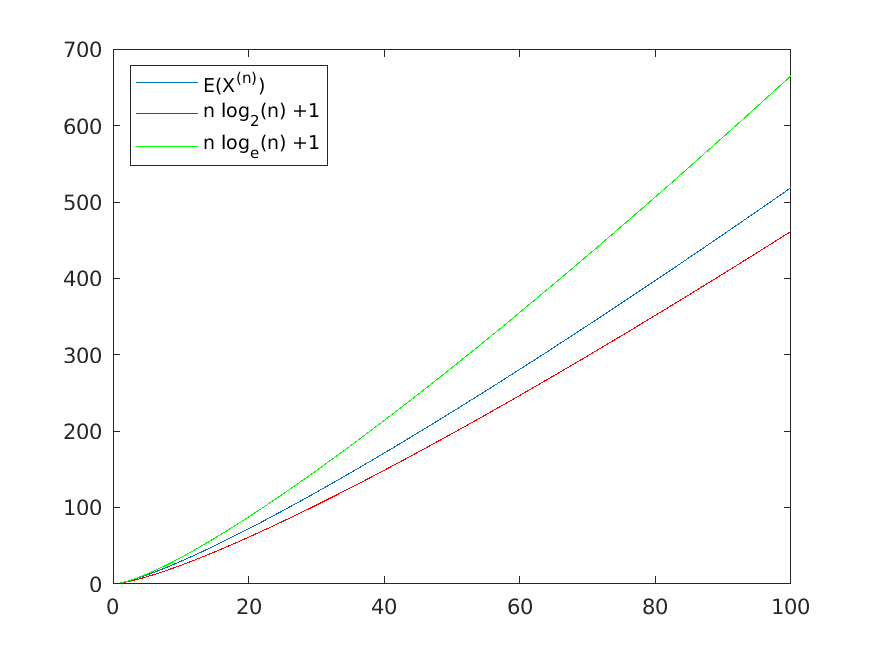
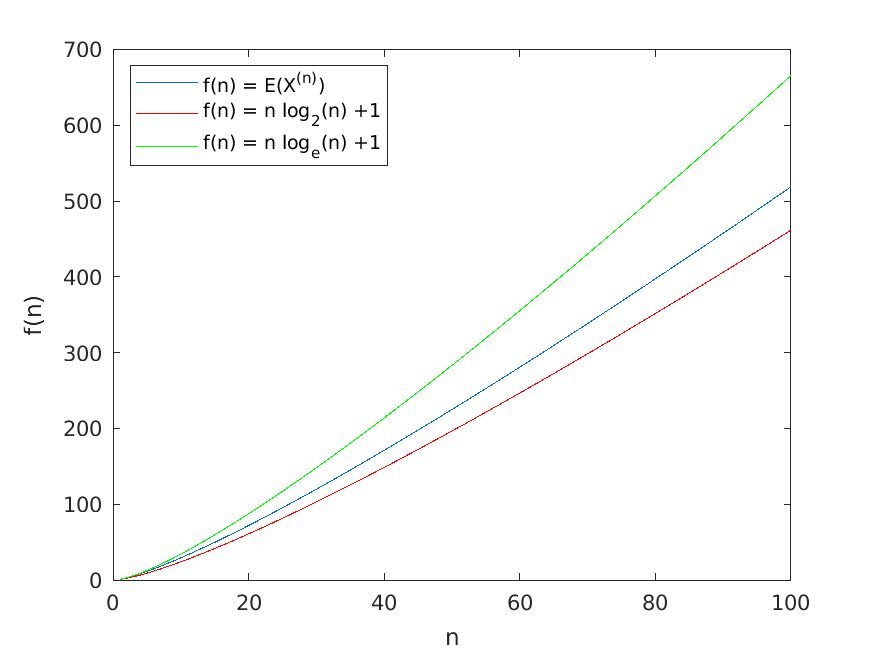
Added comments to code and axes to plot - Q1

diff --git a/MATLAB/q1/q1.m b/MATLAB/q1/q1.m
@@ -2,17 +2,18 @@ clear;
 close all;
 clc;
 
-n = 100;
-lin = 1:n;
-invlin = ones(1,n)./lin;
-x = zeros(1,n);
-for i = lin
-    x(1,i:n) = x(1,i:n) + 1/i;
+n = 100; % Range n - can be changed
+lin = 1:n; % 1 to n
+E = zeros(1,n); % 0
+for i = lin % Looping over n
+    E(1,i:n) = E(1,i:n) + 1/i; % 1/i is part of summation from k=1 to k=j for all j>i
 end
-x = x.*lin;
+E = E.*lin; % Expectation is n*summation(1/i) for i in 1 to n
 
-plot(lin, x); hold on;
-plot(lin, lin.*log(lin)+1,"r");
-plot(lin, lin.*log2(lin)+1,"g");
-legend('E(X^{(n)})', 'n log_2(n) +1', 'n log_e(n) +1', 'Location','northwest');
-saveas(gca,'q1.png');
+plot(lin, E); hold on; % Plot Expectation
+plot(lin, lin.*log(lin)+1,"r"); % Plot n log_e(n) + 1
+plot(lin, lin.*log2(lin)+1,"g"); % Plot n log_2(n) + 1
+legend('f(n) = E(X^{(n)})', 'f(n) = n log_2(n) +1', 'f(n) = n log_e(n) +1', 'Location','northwest'); % Legend
+xlabel('n'); % X-axis Label
+ylabel('f(n)'); % Y-axis Label
+saveas(gca,'q1.png'); % Save figure
